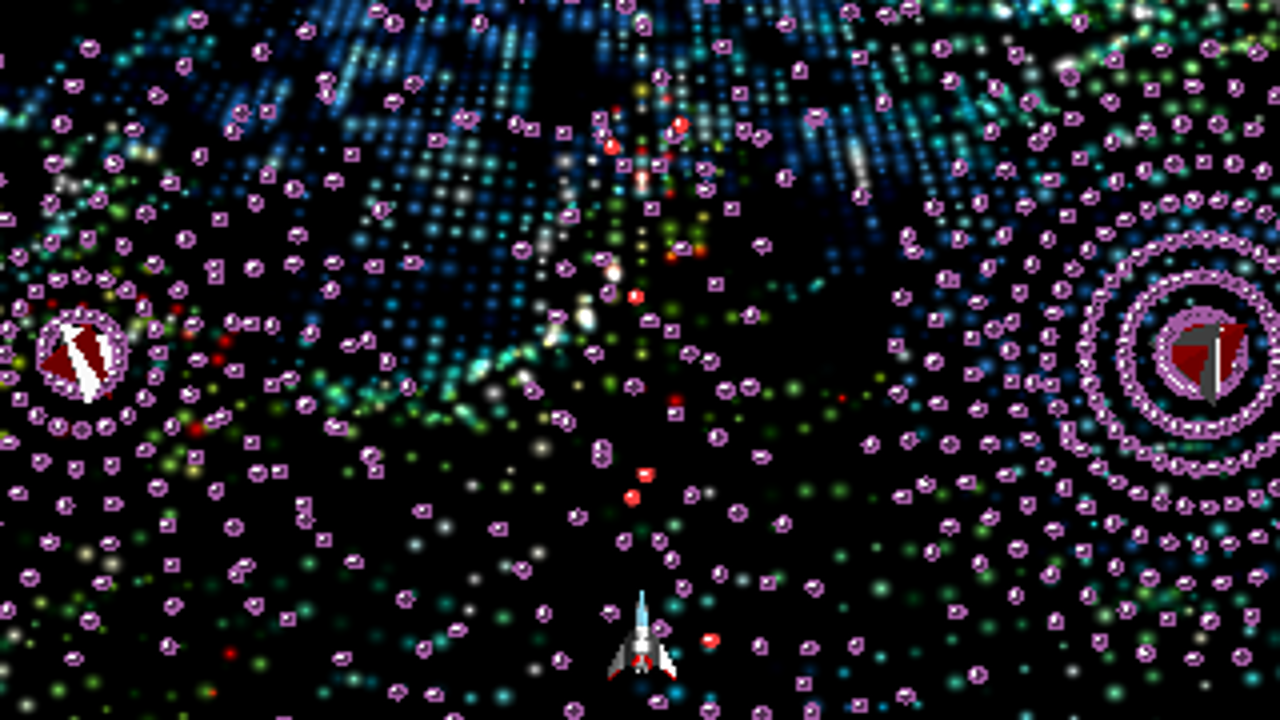
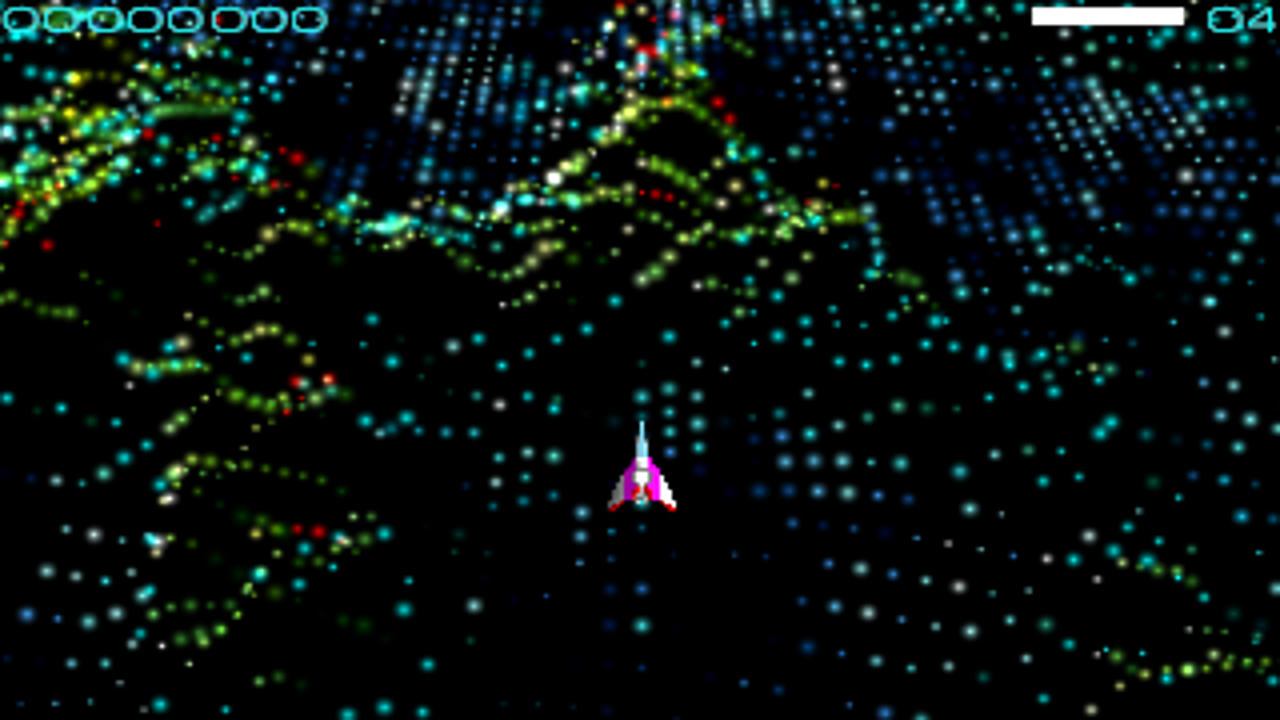
Game some more.

diff --git a/MAIN.CPP b/MAIN.CPP
@@ -215,6 +215,32 @@ public:
   ExplosionRing *slow() {_slow=true;lifeTime*=2;initialLifeTime*=2;return this;}
 };
 
+class ExplosionFlare : public GO, public GO_Position, public GO_LifeTime, public GO_Paintable {
+public:
+  ExplosionFlare(const Vector &p) : GO(), GO_Position(p), GO_LifeTime(0.5), GO_Paintable() {
+  }
+  virtual void paint(double dt) {
+    double l = (double)(initialLifeTime-lifeTime)/initialLifeTime;
+    glEnable(GL_BLEND);
+    glBlendFunc(GL_ONE,GL_ONE);
+    float r = sin(l*PI)*20.0;
+    float k = 1.0;
+    for (int i = 0; i < 5; i++) {
+      float a1 = randomLike(i*33+index*77)*2*PI+seconds*(randomLike(i)+1)*3;
+      float a2 = a1+PI*0.15;
+      glBegin(GL_TRIANGLES);
+      glColor3f(0,0,0);
+      glVertex3f(position.x,position.y,position.z);   
+      glColor3f((1-l)*k,(1-l)*k*0.5,(1-l)*k*0.25);
+      glVertex3f(position.x+sin(a1)*r,position.y+cos(a1)*r,position.z);      
+      glColor3f((1-l)*0.5*k,(1-l)*0.5*k*0.5,(1-l)*0.5*k*0.25);
+      glVertex3f(position.x+sin(a2)*r,position.y+cos(a2)*r,position.z);      
+      glEnd();
+    }
+    glDisable(GL_BLEND);
+  }
+};
+
 void placeSmallSmoke(const Vector &p) {
   gameObjects.push_back(go_(new Explosion(p,Vector(),2,1.0,true,false)));
   shotSound->play();
@@ -256,6 +282,7 @@ void placeExplosion(const Vector &p) {
     gameObjects.push_back(go_(new Explosion(p,Vector((randomLike(k*11)-0.5)*80.0,(randomLike(k*543)-0.5)*80.0,0),5+randomLike(k*33)*5.0,0.25+randomLike(k*373)*0.5,true,false)));
     k++;
   }
+  gameObjects.push_back(go_(new ExplosionFlare(p)));
   exploSound->play();
 }
 
@@ -511,6 +538,22 @@ public:
   }
 };
 
+class LevelObject : public GO, public GO_Position, public GO_Paintable, public GO_Rotation, public GO_Collider_LevelObject {
+public:
+  Mesh *mesh;
+  LevelObject(const Vector &p, const Vector &r, Mesh *mesh) : GO(), GO_Position(p), GO_Paintable(), GO_Rotation(r.w,r.xyz()), GO_Collider_LevelObject(20) {
+    this->mesh = mesh;
+  }
+  virtual void paint(double dt) {
+    glPushMatrix();
+    position.y += dt * 30.0;
+    glTranslatef(position.x,position.y,position.z);
+    glRotatef(angle,axis.x,axis.y,axis.z);
+    drawMesh(mesh);
+    glPopMatrix();
+  }
+};
+
 void shot() {
   static double lastShotTime = currentTime;
   double distance = fabs(lastShotTime - currentTime);
@@ -595,11 +638,13 @@ int main(int argc, const char *argv) {
   enemy1 = loadObject("enemy1.obj");
   enemy2 = loadObject("enemy2.obj");
   enemy3 = loadObject("enemy3.obj");
+  object1 = loadObject("object1.obj");
   centerAndResizeObject(player,10.0);
   centerAndResizeObject(enemy,10.0);
   centerAndResizeObject(enemy1,10.0);
   centerAndResizeObject(enemy2,15.0);
   centerAndResizeObject(enemy3,10.0);
+  centerAndResizeObject(object1,30.0);
   enemyShotSound = auLoadSample(0,0.25);
   shotSound = auLoadSample(0,0.5);
   exploSound = auLoadSample(1,10);
@@ -612,7 +657,7 @@ int main(int argc, const char *argv) {
   //gameObjects.push_back(go_(new SimpleCircleShotEmitter(Vector(+100,-1200,0),0.2,32,40)));
   //gameObjects.push_back(go_(new SimpleCircleShotEmitter(Vector(0,-1400,0),0.8,32,80)));
 
-  int i;
+  int i,j;
   for (i = 0; i < 10; i++) {
     gameObjects.push_back(go_(new Enemy1(Vector(randomLike(i*33)*150-75,-100-i*20,0))));
   }
@@ -635,6 +680,35 @@ int main(int argc, const char *argv) {
     } else {
       gameObjects.push_back(go_((new Enemy2(Vector(randomLike(i*33)*150-75,-1100-i*80,0),true))->circularShots()));
       gameObjects.push_back(go_((new Enemy2(Vector(randomLike(i*33)*150-75,-1100-i*80-40,0),false))->circularShots()));
+    }
+  }
+
+  for (i = 0; i < 10; i++) {
+    double xp = 75;
+      gameObjects.push_back(go_(new LevelObject(Vector(-xp,-1100-i*5,0), Vector(0,1,0,0), object1)));
+      gameObjects.push_back(go_(new LevelObject(Vector(xp,-1100-i*5,0), Vector(0,1,0,180), object1)));
+  }
+
+  for (j = 0; j < 2; j++) {
+    for (int k = 0; k < 3; ++k) {
+      double r = 1.0-(double)k/3;
+      for (i = 0; i < 5; i++) {
+        double xp = 75;
+        gameObjects.push_back(go_(new LevelObject(Vector((-80+j*160)*r,-500-i*8-k*100,-xp), Vector(0,1,0,0-90), object1)));
+        gameObjects.push_back(go_(new LevelObject(Vector((-80+j*160)*r,-500-i*8-k*100,xp), Vector(0,1,0,180-90), object1)));
+      }
+    }
+  }
+
+  for (j = 0; j < 2; j++) {
+   for (i = 0; i < (j==0?8:18); i++) {
+      double xp = 95;
+      double a = i * 20;
+      double a2 = a * PI / 180.0;
+      a += 90;
+      double lp = -100 - j * 1240;
+      gameObjects.push_back(go_(new LevelObject(Vector(sin(a2)*xp,lp-i*4,cos(a2)*xp*0.2), Vector(0,1,0,0+a), object1)));
+      gameObjects.push_back(go_(new LevelObject(Vector(sin(a2+PI)*xp,lp-i*4,cos(a2+PI)*xp*0.2), Vector(0,1,0,180+a), object1)));
     }
   }
 

diff --git a/gameomgr.cpp b/gameomgr.cpp
@@ -203,6 +203,29 @@ void GO_Collider_Enemy_Manager::manage() {
   }
 }
 
+bool GO_Collider_LevelObject_Manager::addObject(GO *o) {
+  if (dynamic_cast<GO_Collider_LevelObject*>(o)==NULL) return false;
+  if (dynamic_cast<GO_Position*>(o)==NULL) return false;
+  managed.push_back(o);
+  return true;
+}
+
+void GO_Collider_LevelObject_Manager::manage() {
+  for (int i = 0; i < managed.size(); i++) {
+    GO *o = managed[i];
+    if (o->deleteIt||(!o->activated)) continue;
+    GO_Position *v0 = dynamic_cast<GO_Position*>(o);
+    GO_Collider_LevelObject *v1 = dynamic_cast<GO_Collider_LevelObject*>(o);
+    v1->lastColliderLevelObjectPosition = v1->colliderLevelObjectPosition;
+    v1->colliderLevelObjectPosition = v0->position;
+    if (v1->colliderLevelObjectFresh) {v1->colliderLevelObjectFresh--;continue;}
+    capsule[CAPSULE_COLLIDER] = Capsule(v1->colliderLevelObjectPosition, v1->lastColliderLevelObjectPosition, v1->colliderLevelObjectRadius);
+    if (collide(CAPSULE_COLLIDER,CAPSULE_PLAYER)) {
+      playerHit(true);
+    }
+  }
+}
+
 void go_clearManagers() {
   for (int i = 0; i < goManagers.size(); i++)
     delete goManagers[i];
@@ -220,6 +243,7 @@ void go_setupManagers() {
   goManagers.push_back(new GO_PaintableManager());
   goManagers.push_back(new GO_FrequencyCallbackManager());
   goManagers.push_back(new GO_Collider_Enemy_Manager());
+  goManagers.push_back(new GO_Collider_LevelObject_Manager());
 }
 
 

diff --git a/backgrnd.cpp b/backgrnd.cpp
@@ -5,6 +5,7 @@
 
 double levelScrollY = 0;
 double levelScrollX = 0;
+double speedUpLevelScrollY = 0;
 
 extern int XRES;
 extern int YRES;
@@ -53,11 +54,13 @@ static const float perlin(double x, double y) {
 }
 
 void paintLevel() {
+  if (levelScrollY > 1000) speedUpLevelScrollY = (levelScrollY-1000)*2;
+  const double levelScrollY2 = levelScrollY + speedUpLevelScrollY;
   const double sc = 0.01;
   const double scale = 0.5;
   const double dY = 22.0*scale;
-  const double fY =  fmod(levelScrollY,dY);
-  const double tY = levelScrollY - fY;
+  const double fY =  fmod(levelScrollY2,dY);
+  const double tY = levelScrollY2 - fY;
   const double particleSize = 7.5;
   glEnable(GL_TEXTURE_2D);
   glEnable(GL_BLEND);
@@ -70,7 +73,7 @@ void paintLevel() {
   int yNear = 5+2;
   int yFar = -25-23-4;
   int nearX = 34+5+4;
-  int farX = 85+5;
+  int farX = 85+5+5+5;
   for (int y = yFar; y < yNear; y++) {
     int xHere = (farX-nearX)*fabs(y-yNear)/fabs(yFar-yNear)+nearX;
     double lp = 0;
@@ -94,7 +97,7 @@ void paintLevel() {
       }
       k.z = p*120.0;
       if (k.z > 120 && (k.y-tY>-1000)) k.z = 120;
-      d *= perlin(k.x*sc*2,(k.y-tY-fY-levelScrollY*4)*sc*2)*0.5+0.5;
+      d *= perlin(k.x*sc*2,(k.y-tY-fY-levelScrollY2*4)*sc*2)*0.5+0.5;
       glColor3f(d*r-subi,d*g-subi,d*b-subi);
       if (p<0.625&&p>0.575) {
         glColor3f(10,0,0);

diff --git a/GAMEOBJ.HPP b/GAMEOBJ.HPP
@@ -47,6 +47,11 @@ public:
     angle = 0;
     angleAddPerSecond = 0;
   }
+  GO_Rotation(double angle, const Vector &axis) {
+    this->angle = angle;
+    this->axis = axis;
+    angleAddPerSecond = 0;
+  }
   virtual ~GO_Rotation() {
   }
 };
@@ -160,6 +165,19 @@ public:
     colliderEnemyFresh = 2;
   }
   virtual ~GO_Collider_Enemy() {
+  }
+};
+
+class GO_Collider_LevelObject {
+public:
+  Vector colliderLevelObjectPosition;
+  Vector lastColliderLevelObjectPosition;
+  double colliderLevelObjectRadius;
+  int colliderLevelObjectFresh;
+  GO_Collider_LevelObject(double rad) : colliderLevelObjectRadius(rad) {
+    colliderLevelObjectFresh = 2;
+  }
+  virtual ~GO_Collider_LevelObject() {
   }
 };
 

diff --git a/meshes.cpp b/meshes.cpp
@@ -7,10 +7,12 @@ Mesh *enemy = NULL;
 Mesh *enemy1 = NULL;
 Mesh *enemy2 = NULL;
 Mesh *enemy3 = NULL;
+Mesh *object1 = NULL;
 
 static unsigned int translateToColor(const String &c) {
   String k = toLower(c);
   if (k.startsWith("white")) return 0xffffffff;
+  if (k.startsWith("grey")) return 0xff808080;
   if (k.startsWith("red")) return 0xff0000ff;
   if (k.startsWith("black")) return 0xff000000;
   if (k.startsWith("plexiglas")) return 0x80ffc000;

diff --git a/gameomgr.HPP b/gameomgr.HPP
@@ -109,6 +109,16 @@ public:
   virtual void manage();
 };
 
+class GO_Collider_LevelObject_Manager : public GO_Manager {
+public:
+  GO_Collider_LevelObject_Manager() : GO_Manager() {
+  }
+  virtual ~GO_Collider_LevelObject_Manager() {
+  }
+  virtual bool addObject(GO *o);
+  virtual void manage();
+};
+
 extern Array<class GO*> gameObjects;
 extern Array<class GO_Manager*> goManagers;
 

diff --git a/meshes.hpp b/meshes.hpp
@@ -24,6 +24,7 @@ extern Mesh *enemy;
 extern Mesh *enemy1; // round/circular object 
 extern Mesh *enemy2; // ship red wings
 extern Mesh *enemy3; // a white black ball
+extern Mesh *object1; // hangar like <
 
 Mesh *loadObject(const String &fileName);
 void centerAndResizeObject(Mesh *mesh, double size);
